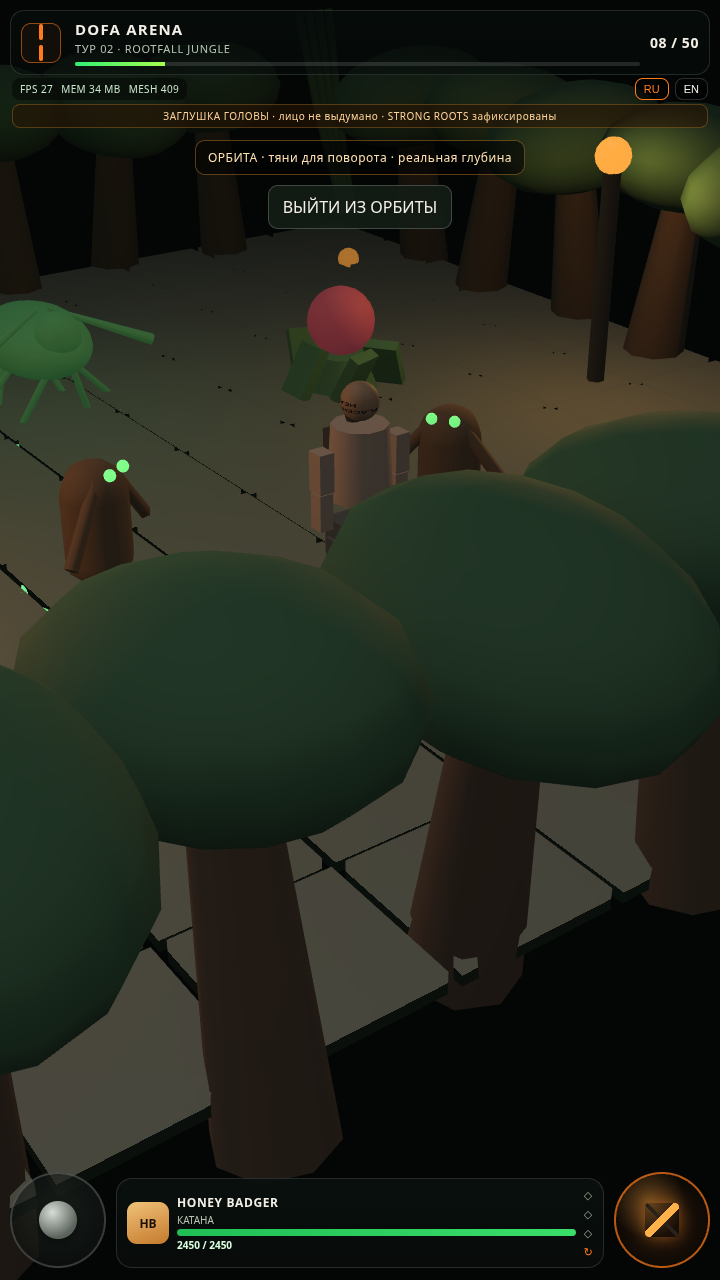
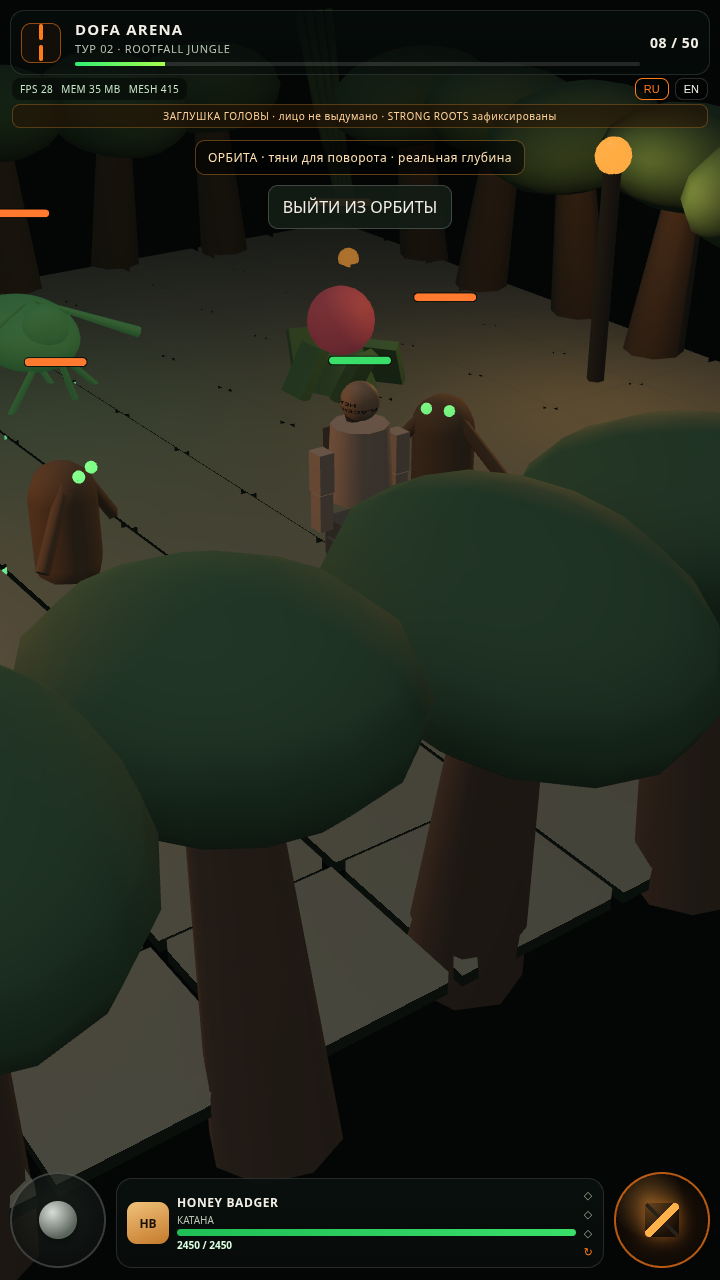
Add Archero-feel floating HP bars and damage numbers
Wire mesh-linked world HUD over the Rootfall 08 Babylon slice,
store owner feel-reference screenshots as TARGET docs only, and
refresh in-engine proof captures with the denser combat framing.

diff --git a/arena3d/src/scene/worldHud.js b/arena3d/src/scene/worldHud.js
@@ -1,0 +1,125 @@
+import {
+  AdvancedDynamicTexture,
+  Control,
+  Rectangle,
+  TextBlock,
+} from "@babylonjs/gui";
+
+/**
+ * Archero-feel world HUD: floating HP bars + floating damage numbers.
+ * Linked to real 3D meshes — not 2D fake depth.
+ */
+export function createWorldHud(scene) {
+  const ui = AdvancedDynamicTexture.CreateFullscreenUI("archeroWorldHud", true, scene);
+  const bars = new Map();
+  const floaters = [];
+
+  function ensureBar(id, mesh, opts = {}) {
+    if (bars.has(id)) return bars.get(id);
+    const wrap = new Rectangle(`hpWrap_${id}`);
+    wrap.width = "64px";
+    wrap.height = "10px";
+    wrap.cornerRadius = 4;
+    wrap.thickness = 1;
+    wrap.color = "rgba(0,0,0,0.65)";
+    wrap.background = "rgba(0,0,0,0.45)";
+    wrap.verticalAlignment = Control.VERTICAL_ALIGNMENT_CENTER;
+    wrap.horizontalAlignment = Control.HORIZONTAL_ALIGNMENT_CENTER;
+    ui.addControl(wrap);
+    wrap.linkWithMesh(mesh);
+    wrap.linkOffsetY = opts.linkOffsetY ?? -70;
+
+    const fill = new Rectangle(`hpFill_${id}`);
+    fill.height = "100%";
+    fill.width = 1;
+    fill.thickness = 0;
+    fill.background = opts.friendly ? "#3adf6a" : "#ff7a2f";
+    fill.horizontalAlignment = Control.HORIZONTAL_ALIGNMENT_LEFT;
+    wrap.addControl(fill);
+
+    const label = new TextBlock(`hpLabel_${id}`);
+    label.text = "";
+    label.color = "#fff7e8";
+    label.fontSize = 10;
+    label.fontWeight = "700";
+    label.top = "-14px";
+    label.outlineWidth = 2;
+    label.outlineColor = "#000";
+    wrap.addControl(label);
+
+    const entry = { wrap, fill, label, friendly: Boolean(opts.friendly) };
+    bars.set(id, entry);
+    return entry;
+  }
+
+  function setBar(id, mesh, hp, maxHp, opts = {}) {
+    const entry = ensureBar(id, mesh, opts);
+    const ratio = maxHp > 0 ? Math.max(0, Math.min(1, hp / maxHp)) : 0;
+    entry.fill.width = `${ratio * 100}%`;
+    entry.fill.background = opts.friendly ? "#3adf6a" : (ratio < 0.35 ? "#ff3b3b" : "#ff7a2f");
+    if (opts.showValue) {
+      entry.label.text = String(Math.max(0, Math.round(hp)));
+    } else {
+      entry.label.text = "";
+    }
+    entry.wrap.isVisible = hp > 0;
+  }
+
+  function hideBar(id) {
+    const entry = bars.get(id);
+    if (entry) entry.wrap.isVisible = false;
+  }
+
+  function spawnDamageNumber(mesh, amount, opts = {}) {
+    const text = new TextBlock(`dmg_${Date.now()}_${Math.random()}`);
+    text.text = opts.heal ? `+${Math.round(amount)}` : `-${Math.round(amount)}`;
+    text.color = opts.heal ? "#7dff9a" : "#ffe14a";
+    text.fontSize = opts.crit ? 28 : 22;
+    text.fontWeight = "900";
+    text.outlineWidth = 3;
+    text.outlineColor = "#1a0c00";
+    text.horizontalAlignment = Control.HORIZONTAL_ALIGNMENT_CENTER;
+    text.verticalAlignment = Control.VERTICAL_ALIGNMENT_CENTER;
+    ui.addControl(text);
+    text.linkWithMesh(mesh);
+    text.linkOffsetY = opts.linkOffsetY ?? -95;
+    floaters.push({
+      control: text,
+      life: 0.7,
+      age: 0,
+      baseY: opts.linkOffsetY ?? -95,
+      drift: opts.crit ? -48 : -36,
+    });
+  }
+
+  function update(dt) {
+    for (let i = floaters.length - 1; i >= 0; i -= 1) {
+      const f = floaters[i];
+      f.age += dt;
+      const u = Math.min(1, f.age / f.life);
+      f.control.linkOffsetY = f.baseY + f.drift * u;
+      f.control.alpha = Math.max(0, 1 - u);
+      if (f.age >= f.life) {
+        ui.removeControl(f.control);
+        f.control.dispose();
+        floaters.splice(i, 1);
+      }
+    }
+  }
+
+  function dispose() {
+    for (const f of floaters) {
+      ui.removeControl(f.control);
+      f.control.dispose();
+    }
+    floaters.length = 0;
+    for (const entry of bars.values()) {
+      ui.removeControl(entry.wrap);
+      entry.wrap.dispose();
+    }
+    bars.clear();
+    ui.dispose();
+  }
+
+  return { setBar, hideBar, spawnDamageNumber, update, dispose };
+}

diff --git a/arena3d/src/main.js b/arena3d/src/main.js
@@ -25,6 +25,7 @@ import { createControls } from "./scene/controls.js";
 import { createEnemySet, createSeedProjectile } from "./scene/enemies.js";
 import { createHoneyBadger } from "./scene/hero.js";
 import { assertNoConceptBillboard, buildRootfallRoom, resolveWallPush } from "./scene/room.js";
+import { createWorldHud } from "./scene/worldHud.js";
 
 const canvas = document.getElementById("render-canvas");
 const appRoot = document.getElementById("app");
@@ -199,6 +200,23 @@ async function boot() {
   state.enemies = createEnemySet(scene, state.room.shadow);
   syncEnemyTransforms();
   assertNoConceptBillboard(scene);
+
+  function makeHudAnchor(parent, name, y = 1.65) {
+    const anchor = MeshBuilder.CreateBox(name, { size: 0.05 }, scene);
+    anchor.parent = parent;
+    anchor.position.y = y;
+    anchor.isVisible = false;
+    anchor.isPickable = false;
+    return anchor;
+  }
+
+  state.hero.hudAnchor = makeHudAnchor(state.hero.root, "heroHudAnchor", 1.7);
+  for (const enemy of state.enemies) {
+    enemy.hudAnchor = makeHudAnchor(enemy.root, `enemyHud_${enemy.id}`, 1.35);
+    enemy.maxHp = enemy.maxHp ?? enemy.hp;
+  }
+  state.worldHud = createWorldHud(scene);
+
   updateHud();
 
   // Expose diagnostics for capture scripts / honest FPS reporting.
@@ -298,13 +316,41 @@ async function boot() {
         for (const id of hits) {
           const enemy = state.enemies.find((e) => e.id === id);
           if (!enemy || !enemy.alive) continue;
+          const before = enemy.hp;
           Object.assign(enemy, damageEnemy(enemy, SLICE.attackDamage));
+          const dealt = Math.max(0, before - enemy.hp);
+          if (dealt > 0 && enemy.hudAnchor) {
+            state.worldHud.spawnDamageNumber(enemy.hudAnchor, dealt);
+          }
+          if (enemy.hudAnchor) {
+            state.worldHud.setBar(enemy.id, enemy.hudAnchor, enemy.hp, enemy.maxHp || before, { showValue: false });
+          }
           enemy.root.scaling.setAll(enemy.alive ? 1 : 0.01);
-          if (!enemy.alive) enemy.root.setEnabled(false);
+          if (!enemy.alive) {
+            enemy.root.setEnabled(false);
+            state.worldHud.hideBar(enemy.id);
+          }
         }
       }
       state.attackCd = applyAttackCooldown(state.attackCd, dt, fired);
       state.hero.update(dt, moved.moving);
+
+      // Archero-feel floating HP bars
+      if (state.hero.hudAnchor) {
+        state.worldHud.setBar("hero", state.hero.hudAnchor, state.hp, SLICE.heroMaxHp, {
+          friendly: true,
+          showValue: true,
+        });
+      }
+      for (const enemy of state.enemies) {
+        if (!enemy.hudAnchor) continue;
+        if (!enemy.alive) {
+          state.worldHud.hideBar(enemy.id);
+          continue;
+        }
+        state.worldHud.setBar(enemy.id, enemy.hudAnchor, enemy.hp, enemy.maxHp || enemy.hp);
+      }
+      state.worldHud.update(dt);
 
       // Enemy AI
       syncEnemyTransforms();
@@ -376,6 +422,9 @@ async function boot() {
       updateHud();
     }
 
+    if (state.paused || orbitMode) {
+      state.worldHud?.update(dt);
+    }
     scene.render();
   });
 

diff --git a/docs/ARENA3D_TRUE3D_SLICE.md b/docs/ARENA3D_TRUE3D_SLICE.md
@@ -6,6 +6,8 @@ See full detail in [`arena3d/README.md`](../arena3d/README.md).
 
 Action camera is **Archero / Unity top-down**: steep `beta ≈ 0.4`, hero in the lower third, look toward the enemy pack. Orbit mode is depth-proof only.
 
+Feel refs (camera/HUD/combat chrome only — not IP to clone): [`references/archero-feel/`](references/archero-feel/). World overlay: floating HP bars + damage numbers linked to 3D meshes (`arena3d/src/scene/worldHud.js`).
+
 ## Art pipeline note (Higgsfield / Gemini / Nano Banana / Codex / Grok)
 
 This cloud VM has **no** Higgsfield / Gemini / Nano Banana / Grok image API credentials. Those tools belong in the offline art pipeline for authored glTF/PBR packs that can approach the quality-bar TARGET. This spike keeps **real Babylon meshes** and treats the quality-bar JPEG as TARGET reference only — never as a scene plate.
@@ -24,7 +26,7 @@ TARGET quality bar (reference only, never scene texture): [`references/quality-b
 
 | Bucket | Items |
 | --- | --- |
-| Ready | Parallel `/arena3d/` Babylon path; Archero top-down camera; HUD canon names; real meshes + glTF floor; HB rig + katana; 5 enemies with telegraphs; touch move + attack; RU/EN; tests; orbit proof captures |
+| Ready | Parallel `/arena3d/` Babylon path; Archero top-down camera; floating HP/damage world HUD; HUD canon names; real meshes + glTF floor; HB rig + katana; 5 enemies with telegraphs; touch move + attack; RU/EN; tests; orbit proof captures |
 | Partial | Visual parity vs quality-bar TARGET (procedural PBR ≠ authored ML/Higgsfield art); full skin weights; SW caching of 3D bundle; mobile FPS tuning |
 | Not started | Higgsfield/Gemini authored hero/enemy/room glTF packs; Tours 03–06 3D; full 50-room 3D route; other heroes; 3D audio/abilities; final engine lock |
 | Blocked | Exact HB face scan (not invented); stop-to-auto-attack [TBD]; token/wallet authority; cloud AI art APIs not configured in this agent VM |

diff --git a/arena3d/README.md b/arena3d/README.md
@@ -39,6 +39,7 @@ npm test                     # 2D check + 3D slice tests
 ### Ready
 - Parallel Vite + Babylon.js entry at `/arena3d/`
 - Portrait action camera HUD: pause · DOFA ARENA · TOUR 02 · ROOTFALL JUNGLE · 08/50 · Honey Badger · KATANA · HP · left stick · right attack
+- Archero-feel world HUD: mesh-linked floating HP bars + damage numbers (feel refs in `docs/references/archero-feel/`, not Habby IP)
 - Real 3D Rootfall room meshes (stone tiles, roots, foliage, torches, moss/glow veins) + optional glTF PBR floor tile
 - Rigged Honey Badger hierarchy + katana swing VFX; placeholder head labeled; STRONG ROOTS decal non-mirrored
 - Enemy set: insect elite, 2 plant turrets, 2 wood humanoids; plant shots use telegraph-before-damage

diff --git a/docs/references/archero-feel/README.md b/docs/references/archero-feel/README.md
@@ -1,0 +1,13 @@
+# Archero-feel references (feel only — not IP)
+
+Owner screenshots used as **gameplay/UI feel** targets for DOFA ARENA Arena3D.
+
+| File | Use |
+|------|-----|
+| `archero-feel-combat-corridor-01.jpg` | Top-down combat framing, floating HP, red telegraphs, mobile stick |
+| `archero-feel-combat-corridor-02.jpg` | Same camera + damage numbers + joystick |
+| `archero-feel-ability-pick-ui.jpg` | Ability-pick overlay pattern (future meta) |
+| `archero-feel-habby-meta-loading.jpg` | Meta shell / loading chrome (future hub) |
+
+**Do not** copy Habby/Archero art, logos, names, or assets into the product.  
+Canon remains **DOFA ARENA** / Rootfall / Honey Badger / KAPRIZORD.
